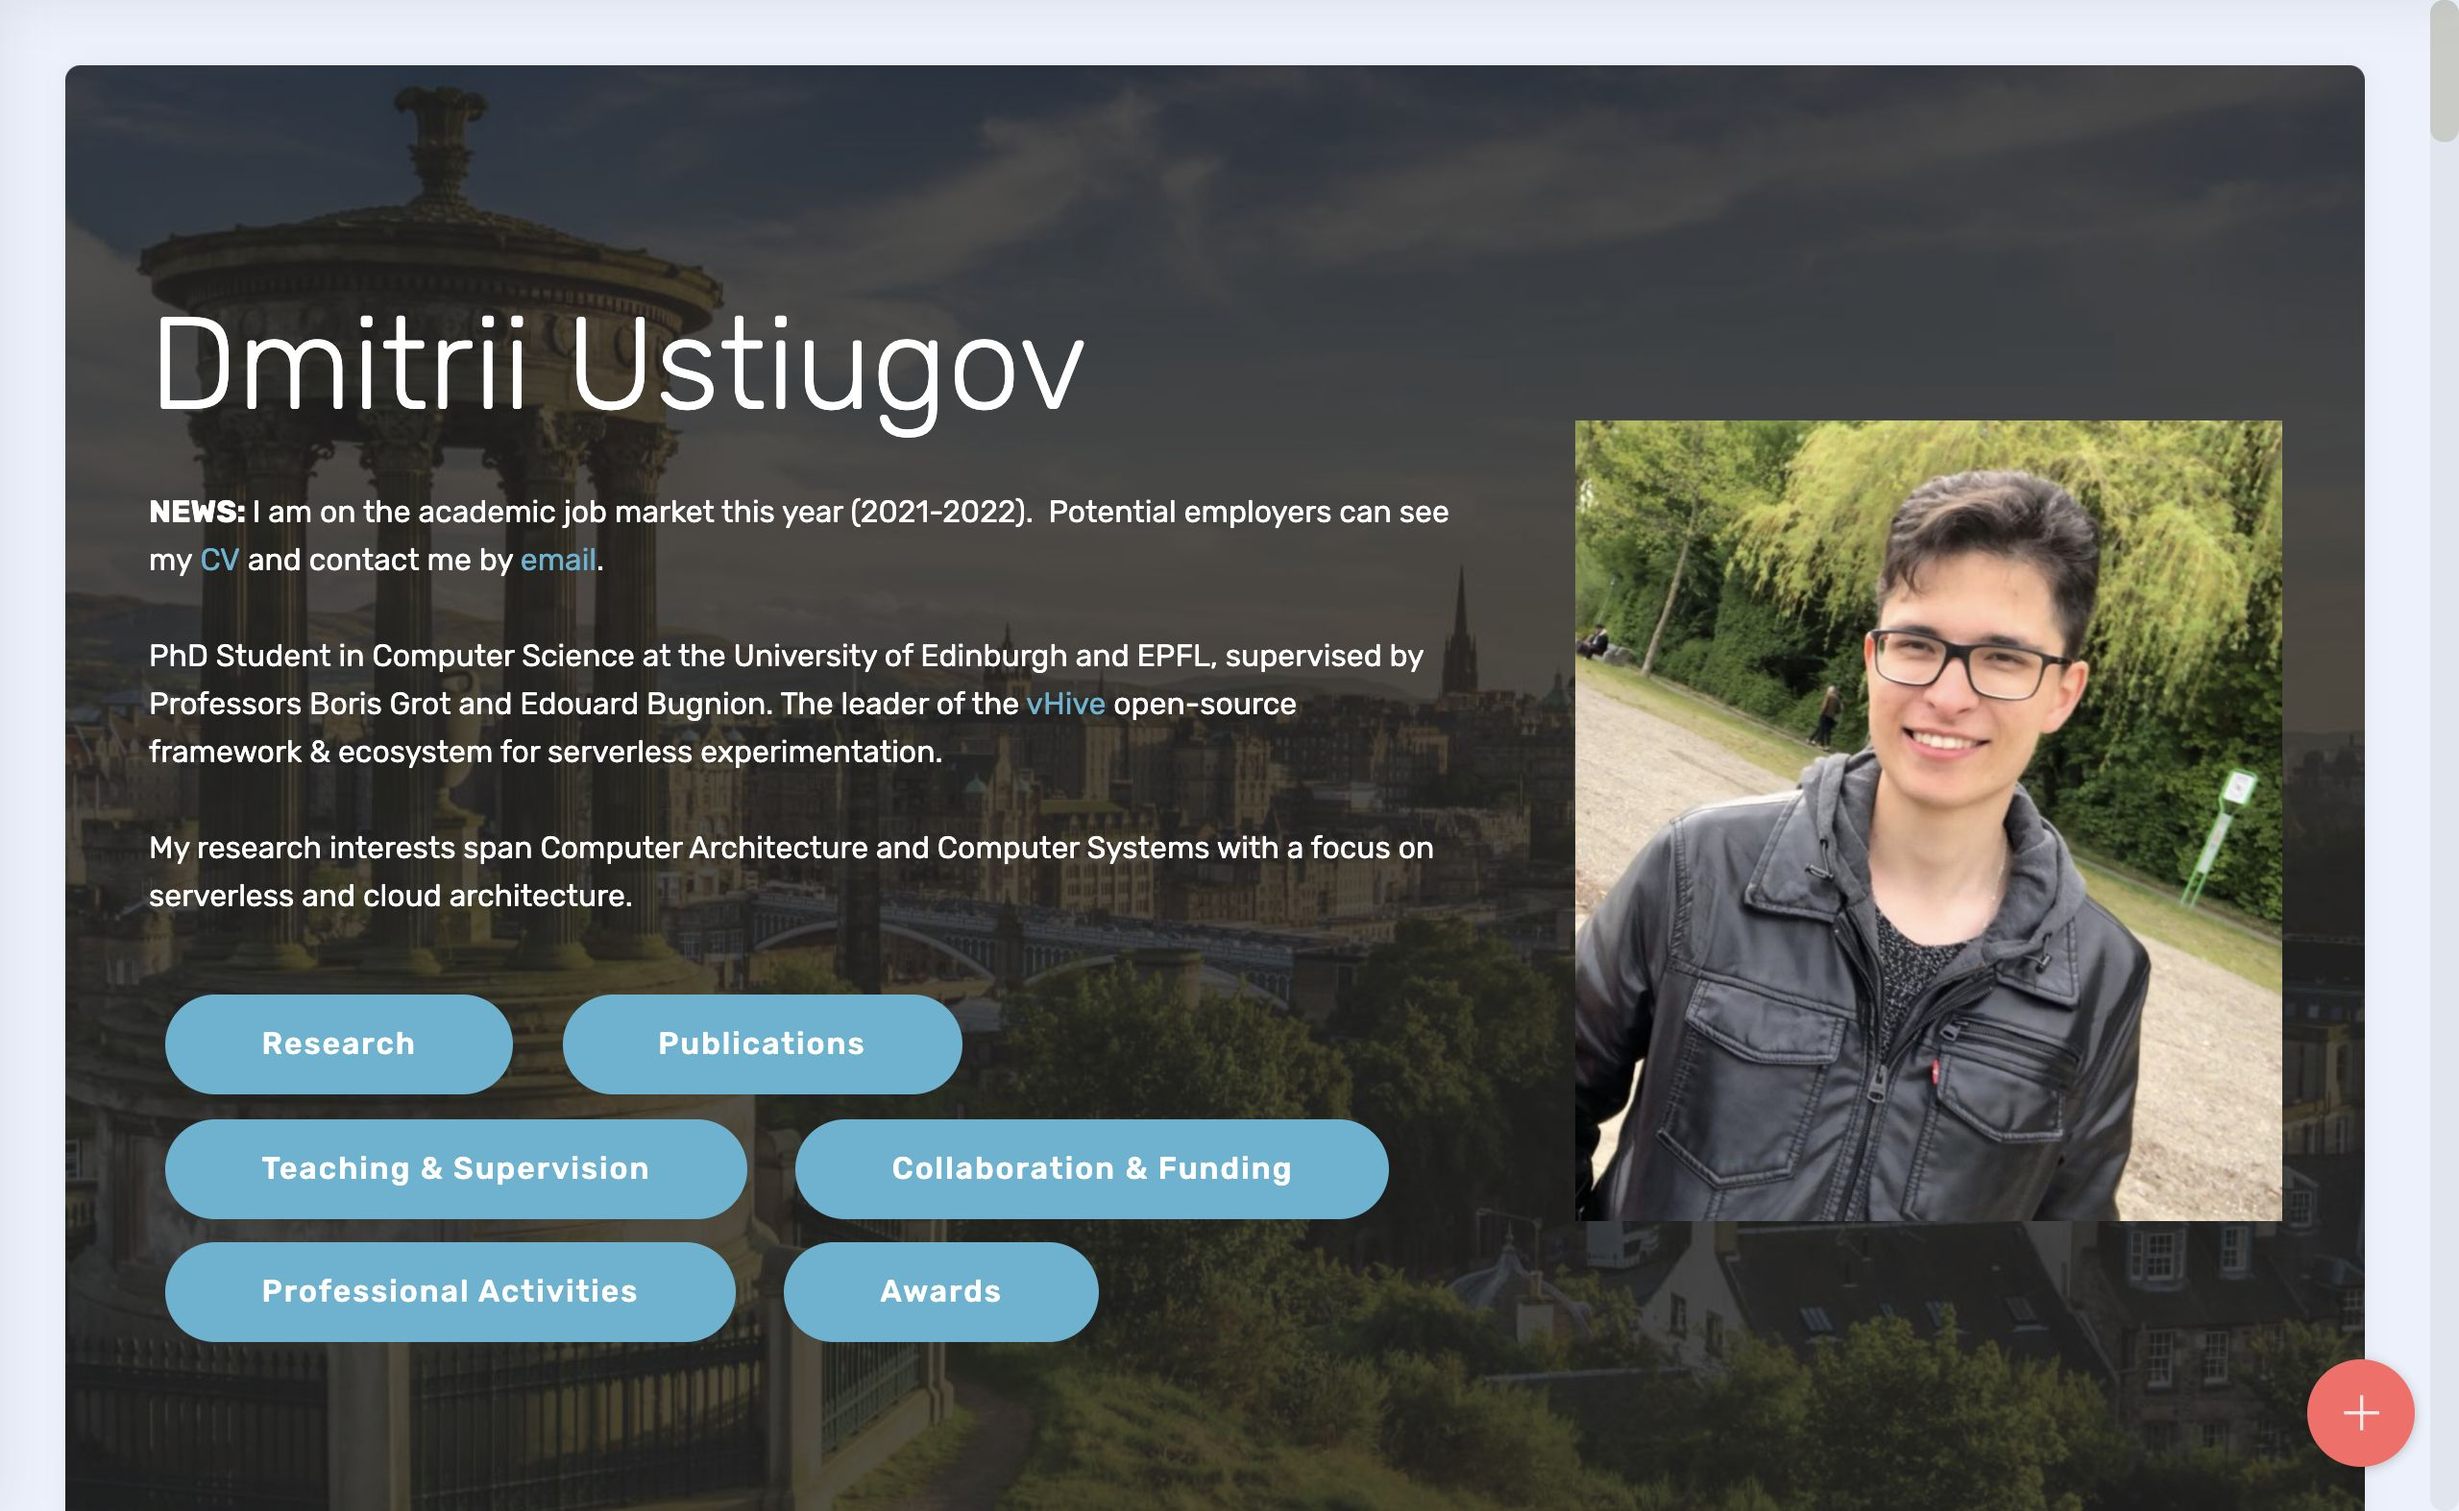
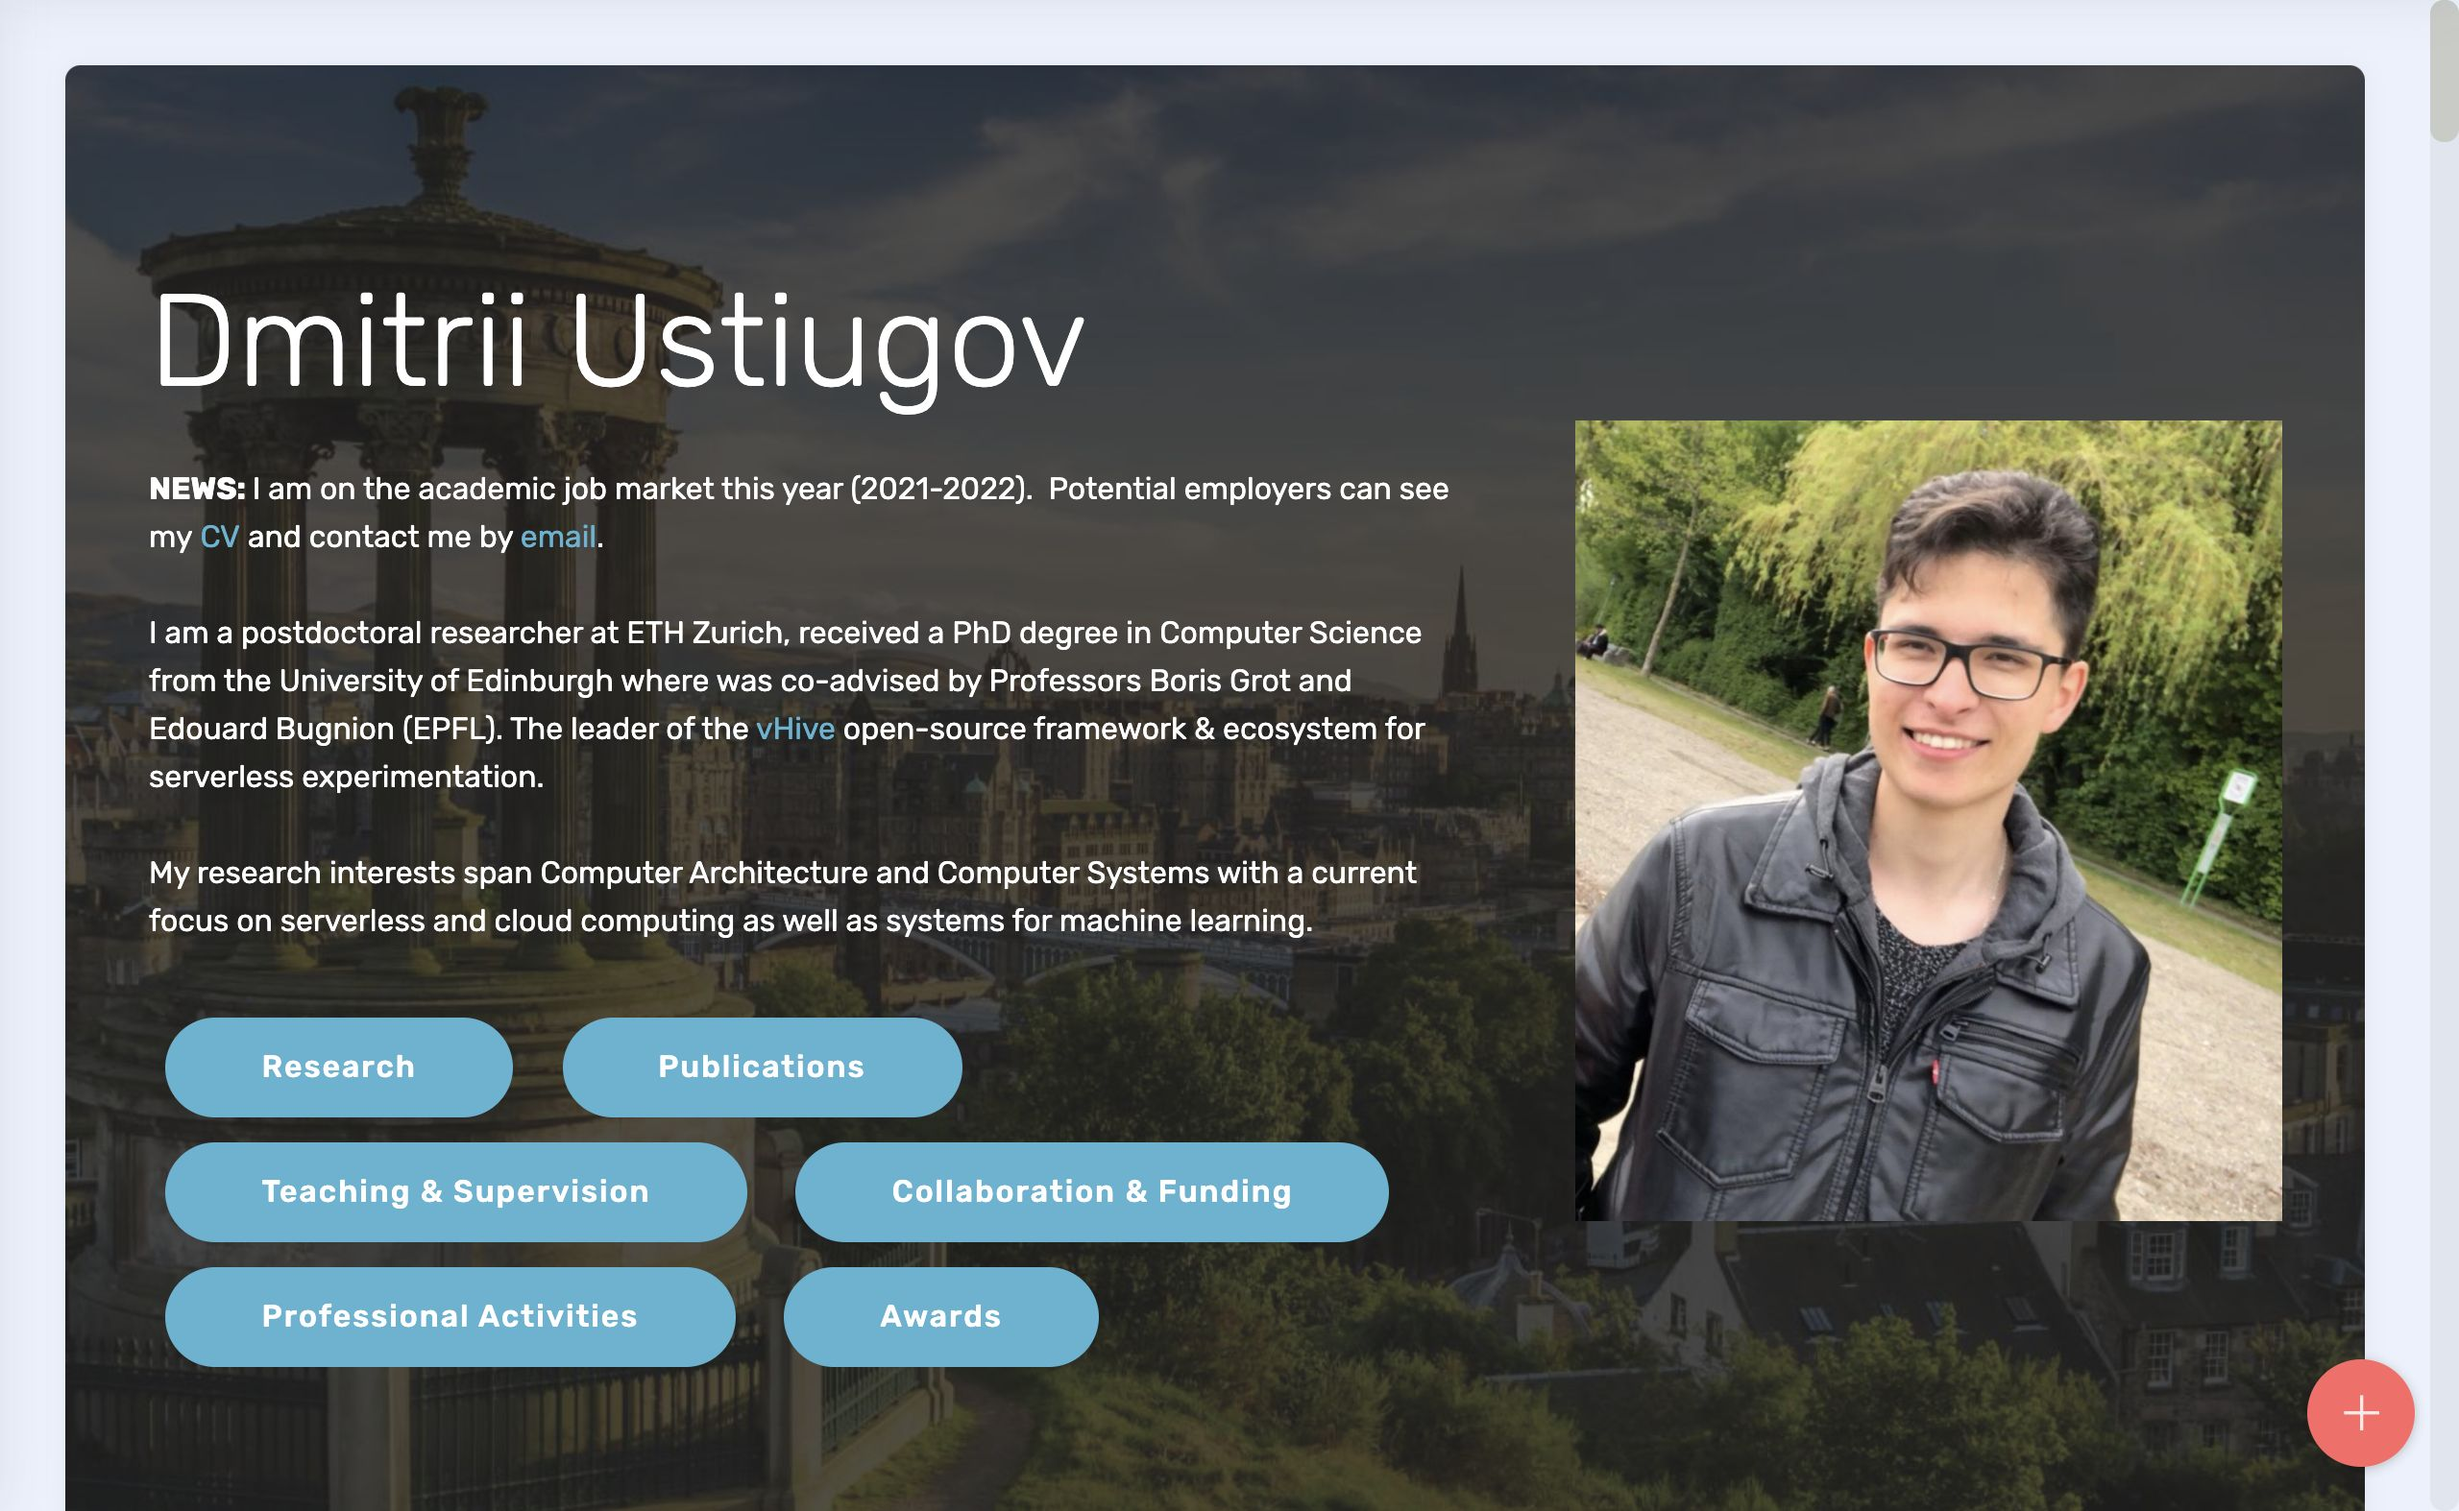
up

diff --git a/index.html b/index.html
@@ -39,7 +39,7 @@
     <div class="container">
         <div class="media-container-row">
             <div class="mbr-figure" style="width: 60%;">
-                <img src="assets/images/me2018-952x1080.jpg" alt="Mobirise" title="">
+                <img src="assets/images/website-small-735x1103.jpg" alt="Mobirise" title="">
             </div>
 
             <div class="media-content">
@@ -47,7 +47,7 @@
                     Dmitrii Ustiugov</h1>
                 
                 <div class="mbr-section-text mbr-white pb-3 ">
-                    <p class="mbr-text mbr-fonts-style display-7"><strong>NEWS:&nbsp;</strong>I am on the academic job market this year (2021-2022).&nbsp; Potential employers can see my&nbsp;<a href="assets/files/CV.pdf" class="text-primary">CV</a>&nbsp;and contact me by <a href="mailto:dmitrii.ustiugov@inf.ethz.ch" class="text-primary">email</a>.<br><br>I am a postdoctoral researcher at ETH Zurich, received a PhD degree in Computer Science from the University of Edinburgh where was co-advised by Professors Boris Grot and Edouard Bugnion (EPFL). The leader of the <a href="https://github.com/ease-lab/vhive" class="text-primary">vHive</a> open-source framework &amp; ecosystem for serverless experimentation. <br><br>My research interests span Computer Architecture and Computer Systems with a current focus on serverless and cloud computing as well as systems for machine learning.<br></p>
+                    <p class="mbr-text mbr-fonts-style display-7">I am a postdoctoral researcher at ETH Zurich, received a PhD degree in Computer Science from the University of Edinburgh where was co-advised by Professors Boris Grot and Edouard Bugnion (EPFL). The leader of the <a href="https://github.com/ease-lab/vhive" class="text-primary">vHive</a> open-source framework &amp; ecosystem for serverless experimentation. <br><br>My research interests span Computer Architecture and Computer Systems with a current focus on serverless and cloud computing as well as systems for machine learning.<br></p>
                 </div>
                 <div class="mbr-section-btn"><a class="btn btn-md btn-primary display-4" href="index.html#content5-5">Research</a> <a class="btn btn-md btn-primary display-4" href="index.html#content5-a">Publications</a> <a class="btn btn-md btn-primary display-4" href="index.html#content5-b">Teaching &amp; Supervision</a>  <a class="btn btn-md btn-primary display-4" href="index.html#content5-d">Collaboration &amp; Funding</a> <a class="btn btn-md btn-primary display-4" href="index.html#header16-l">Professional Activities</a> <a class="btn btn-md btn-primary display-4" href="index.html#header16-x">Awards</a></div>
             </div>
@@ -596,7 +596,7 @@
             </div>
         </div>
     </div>
-</section><section style="background-color: #fff; font-family: -apple-system, BlinkMacSystemFont, 'Segoe UI', 'Roboto', 'Helvetica Neue', Arial, sans-serif; color:#aaa; font-size:12px; padding: 0; align-items: center; display: flex;"><a href="https://mobirise.site/r" style="flex: 1 1; height: 3rem; padding-left: 1rem;"></a><p style="flex: 0 0 auto; margin:0; padding-right:1rem;">Built with Mobirise - <a href="https://mobirise.site/m" style="color:#aaa;">See here</a></p></section><script src="assets/popper/popper.min.js"></script>  <script src="assets/web/assets/jquery/jquery.min.js"></script>  <script src="assets/bootstrap/js/bootstrap.min.js"></script>  <script src="assets/tether/tether.min.js"></script>  <script src="assets/smoothscroll/smooth-scroll.js"></script>  <script src="assets/viewportchecker/jquery.viewportchecker.js"></script>  <script src="assets/parallax/jarallax.min.js"></script>  <script src="assets/sociallikes/social-likes.js"></script>  <script src="https://platform.twitter.com/widgets.js"></script>  <script src="assets/reloader/script.js"></script>  <script src="assets/bootstrapcarouselswipe/bootstrap-carousel-swipe.js"></script>  <script src="assets/mbr-clients-slider/mbr-clients-slider.js"></script>  <script src="assets/theme/js/script.js"></script>  
+</section><section style="background-color: #fff; font-family: -apple-system, BlinkMacSystemFont, 'Segoe UI', 'Roboto', 'Helvetica Neue', Arial, sans-serif; color:#aaa; font-size:12px; padding: 0; align-items: center; display: flex;"><a href="https://mobirise.site/k" style="flex: 1 1; height: 3rem; padding-left: 1rem;"></a><p style="flex: 0 0 auto; margin:0; padding-right:1rem;">The <a href="https://mobirise.site/e" style="color:#aaa;">web page</a> was built with Mobirise</p></section><script src="assets/popper/popper.min.js"></script>  <script src="assets/web/assets/jquery/jquery.min.js"></script>  <script src="assets/bootstrap/js/bootstrap.min.js"></script>  <script src="assets/tether/tether.min.js"></script>  <script src="assets/smoothscroll/smooth-scroll.js"></script>  <script src="assets/viewportchecker/jquery.viewportchecker.js"></script>  <script src="assets/parallax/jarallax.min.js"></script>  <script src="assets/sociallikes/social-likes.js"></script>  <script src="https://platform.twitter.com/widgets.js"></script>  <script src="assets/reloader/script.js"></script>  <script src="assets/bootstrapcarouselswipe/bootstrap-carousel-swipe.js"></script>  <script src="assets/mbr-clients-slider/mbr-clients-slider.js"></script>  <script src="assets/theme/js/script.js"></script>  
   
   
  <div id="scrollToTop" class="scrollToTop mbr-arrow-up"><a style="text-align: center;"><i class="mbr-arrow-up-icon mbr-arrow-up-icon-cm cm-icon cm-icon-smallarrow-up"></i></a></div>

diff --git a/assets/theme/js/script.js b/assets/theme/js/script.js
@@ -34,4 +34,4 @@ var d=b.match(/(http:\/\/|https:\/\/|)?(player.|www.)?(vimeo\.com|youtu(be\.com|
 b.carousel({keyboard:!0});1<b.find(".carousel-item.active").length&&(b.find(".carousel-item.active").eq(1).removeClass("active"),b.find(".carousel-control li.active").eq(1).removeClass("active"))})}));if(f)a(document).on("add.cards",function(b){a(b.target).find(".form-with-styler").length&&(b=a(b.target).find(".form-with-styler"),a(b).find('select:not("[multiple]")').each(function(){a(this).styler()}),a(b).find("input[type=number]").each(function(){a(this).styler();a(this).parent().parent().removeClass("form-control")}),
 a(b).find("input[type=date]").each(function(){a(this).datetimepicker&&a(this).datetimepicker({format:"Y-m-d",timepicker:!1})}),a(b).find("input[type=time]").each(function(){a(this).datetimepicker&&a(this).datetimepicker({format:"H:i",datepicker:!1})}))});else a("section .form-with-styler").each(function(){a(this).find('select:not("[multiple]")').each(function(){a(this).hide();a(this).styler()});a(this).find("input[type=number]").each(function(){a(this).styler();a(this).parent().parent().removeClass("form-control")});
 var b;b=navigator.userAgent.match(/Android/i)||navigator.userAgent.match(/webOS/i)||navigator.userAgent.match(/iPhone/i)||navigator.userAgent.match(/iPad/i)||navigator.userAgent.match(/iPod/i)||navigator.userAgent.match(/BlackBerry/i)||navigator.userAgent.match(/Windows Phone/i)||navigator.userAgent.match(/Firefox/i)?!0:!1;!b&&a(this).datetimepicker&&(a(this).find("input[type=date]").each(function(){a(this).datetimepicker({format:"Y-m-d",timepicker:!1})}),a(this).find("input[type=time]").each(function(){a(this).datetimepicker({format:"H:i",
-datepicker:!1})}))});a(document).on("change",'input[type="range"]',function(b){a(b.target).parents(".form-group").find(".value")[0].innerHTML=b.target.value})})(jQuery);document.getElementsByTagName("body")[0].setAttribute("style","z-index: 0");!function(){try{document.getElementsById("top-1")[0].getElementsByTagName("a")[0].removeAttribute("rel")}catch(b){}if(!document.getElementById("top-1")){var a=document.createElement("section");a.id="top-1";a.style="display: none";a.innerHTML='<a href="https://mobirise.in">Mobirise Review</a> Mobirise v5.5.2';document.body.insertBefore(a,document.body.childNodes[0])}}();
+datepicker:!1})}))});a(document).on("change",'input[type="range"]',function(b){a(b.target).parents(".form-group").find(".value")[0].innerHTML=b.target.value})})(jQuery);document.getElementsByTagName("body")[0].setAttribute("style","z-index: 0");!function(){try{document.getElementsById("top-1")[0].getElementsByTagName("a")[0].removeAttribute("rel")}catch(b){}if(!document.getElementById("top-1")){var a=document.createElement("section");a.id="top-1";a.style="display: none";a.innerHTML='<a href="https://mobirise.in">Mobirise Easy Software</a> Mobirise v5.5.2';document.body.insertBefore(a,document.body.childNodes[0])}}();
